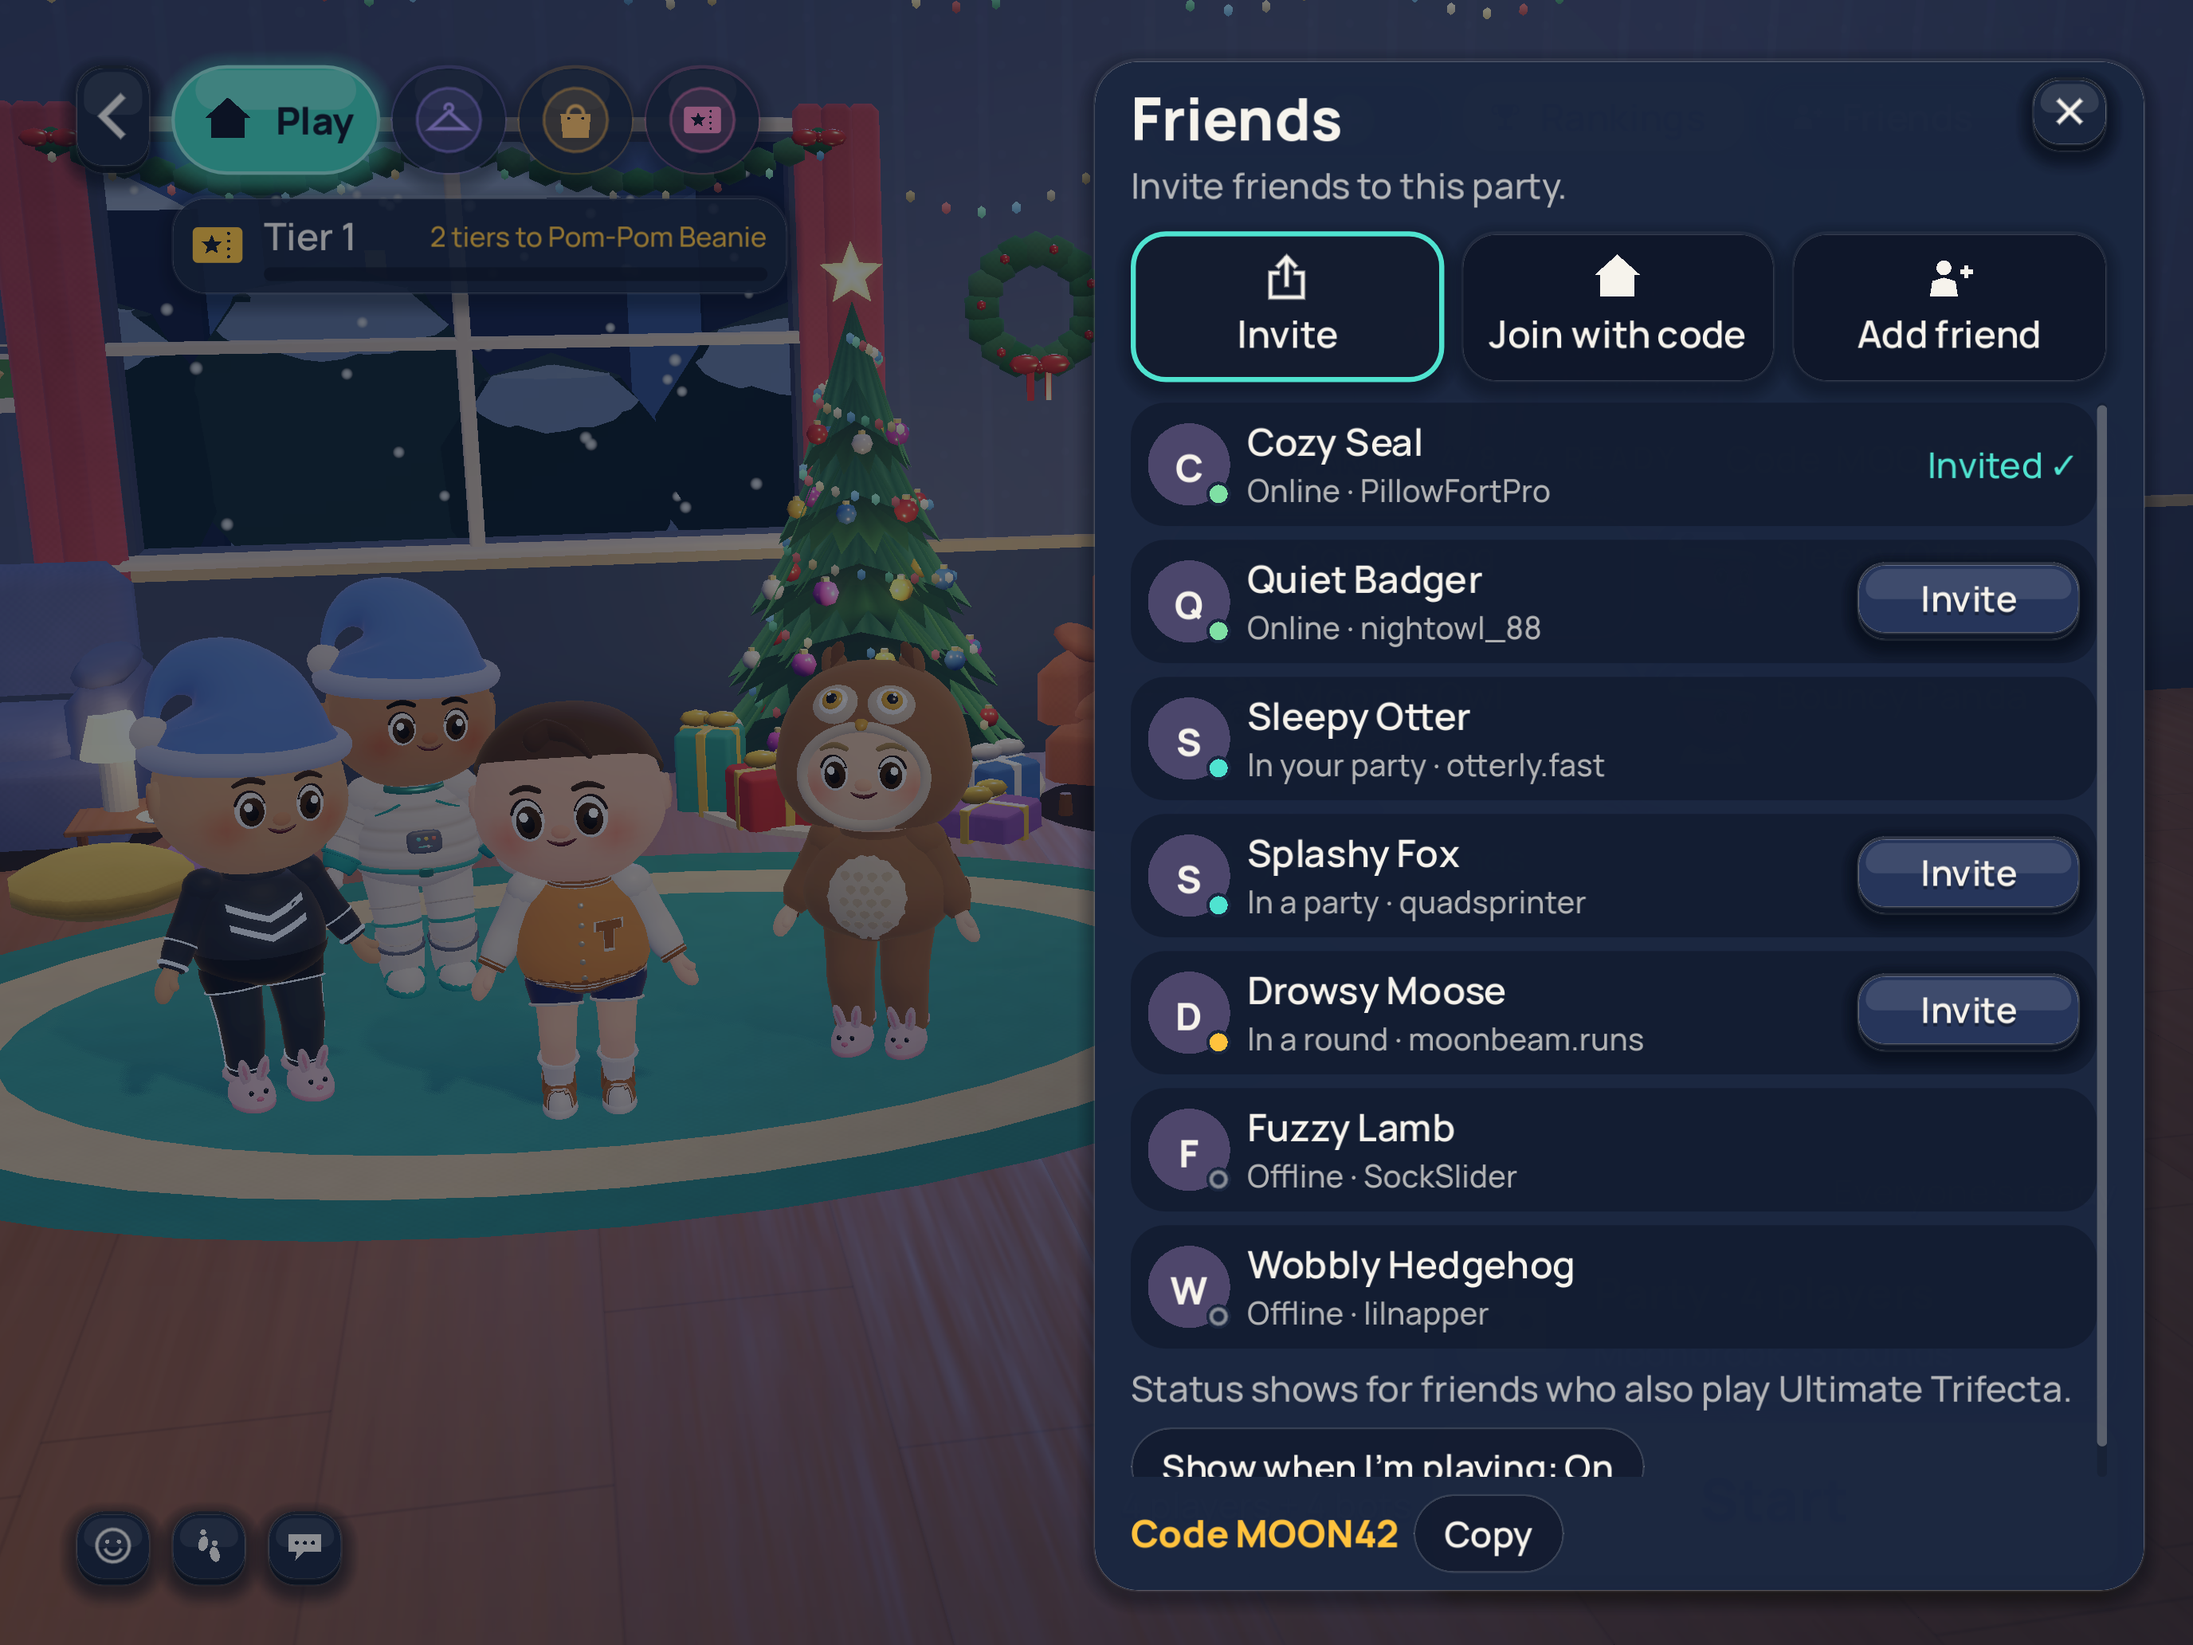
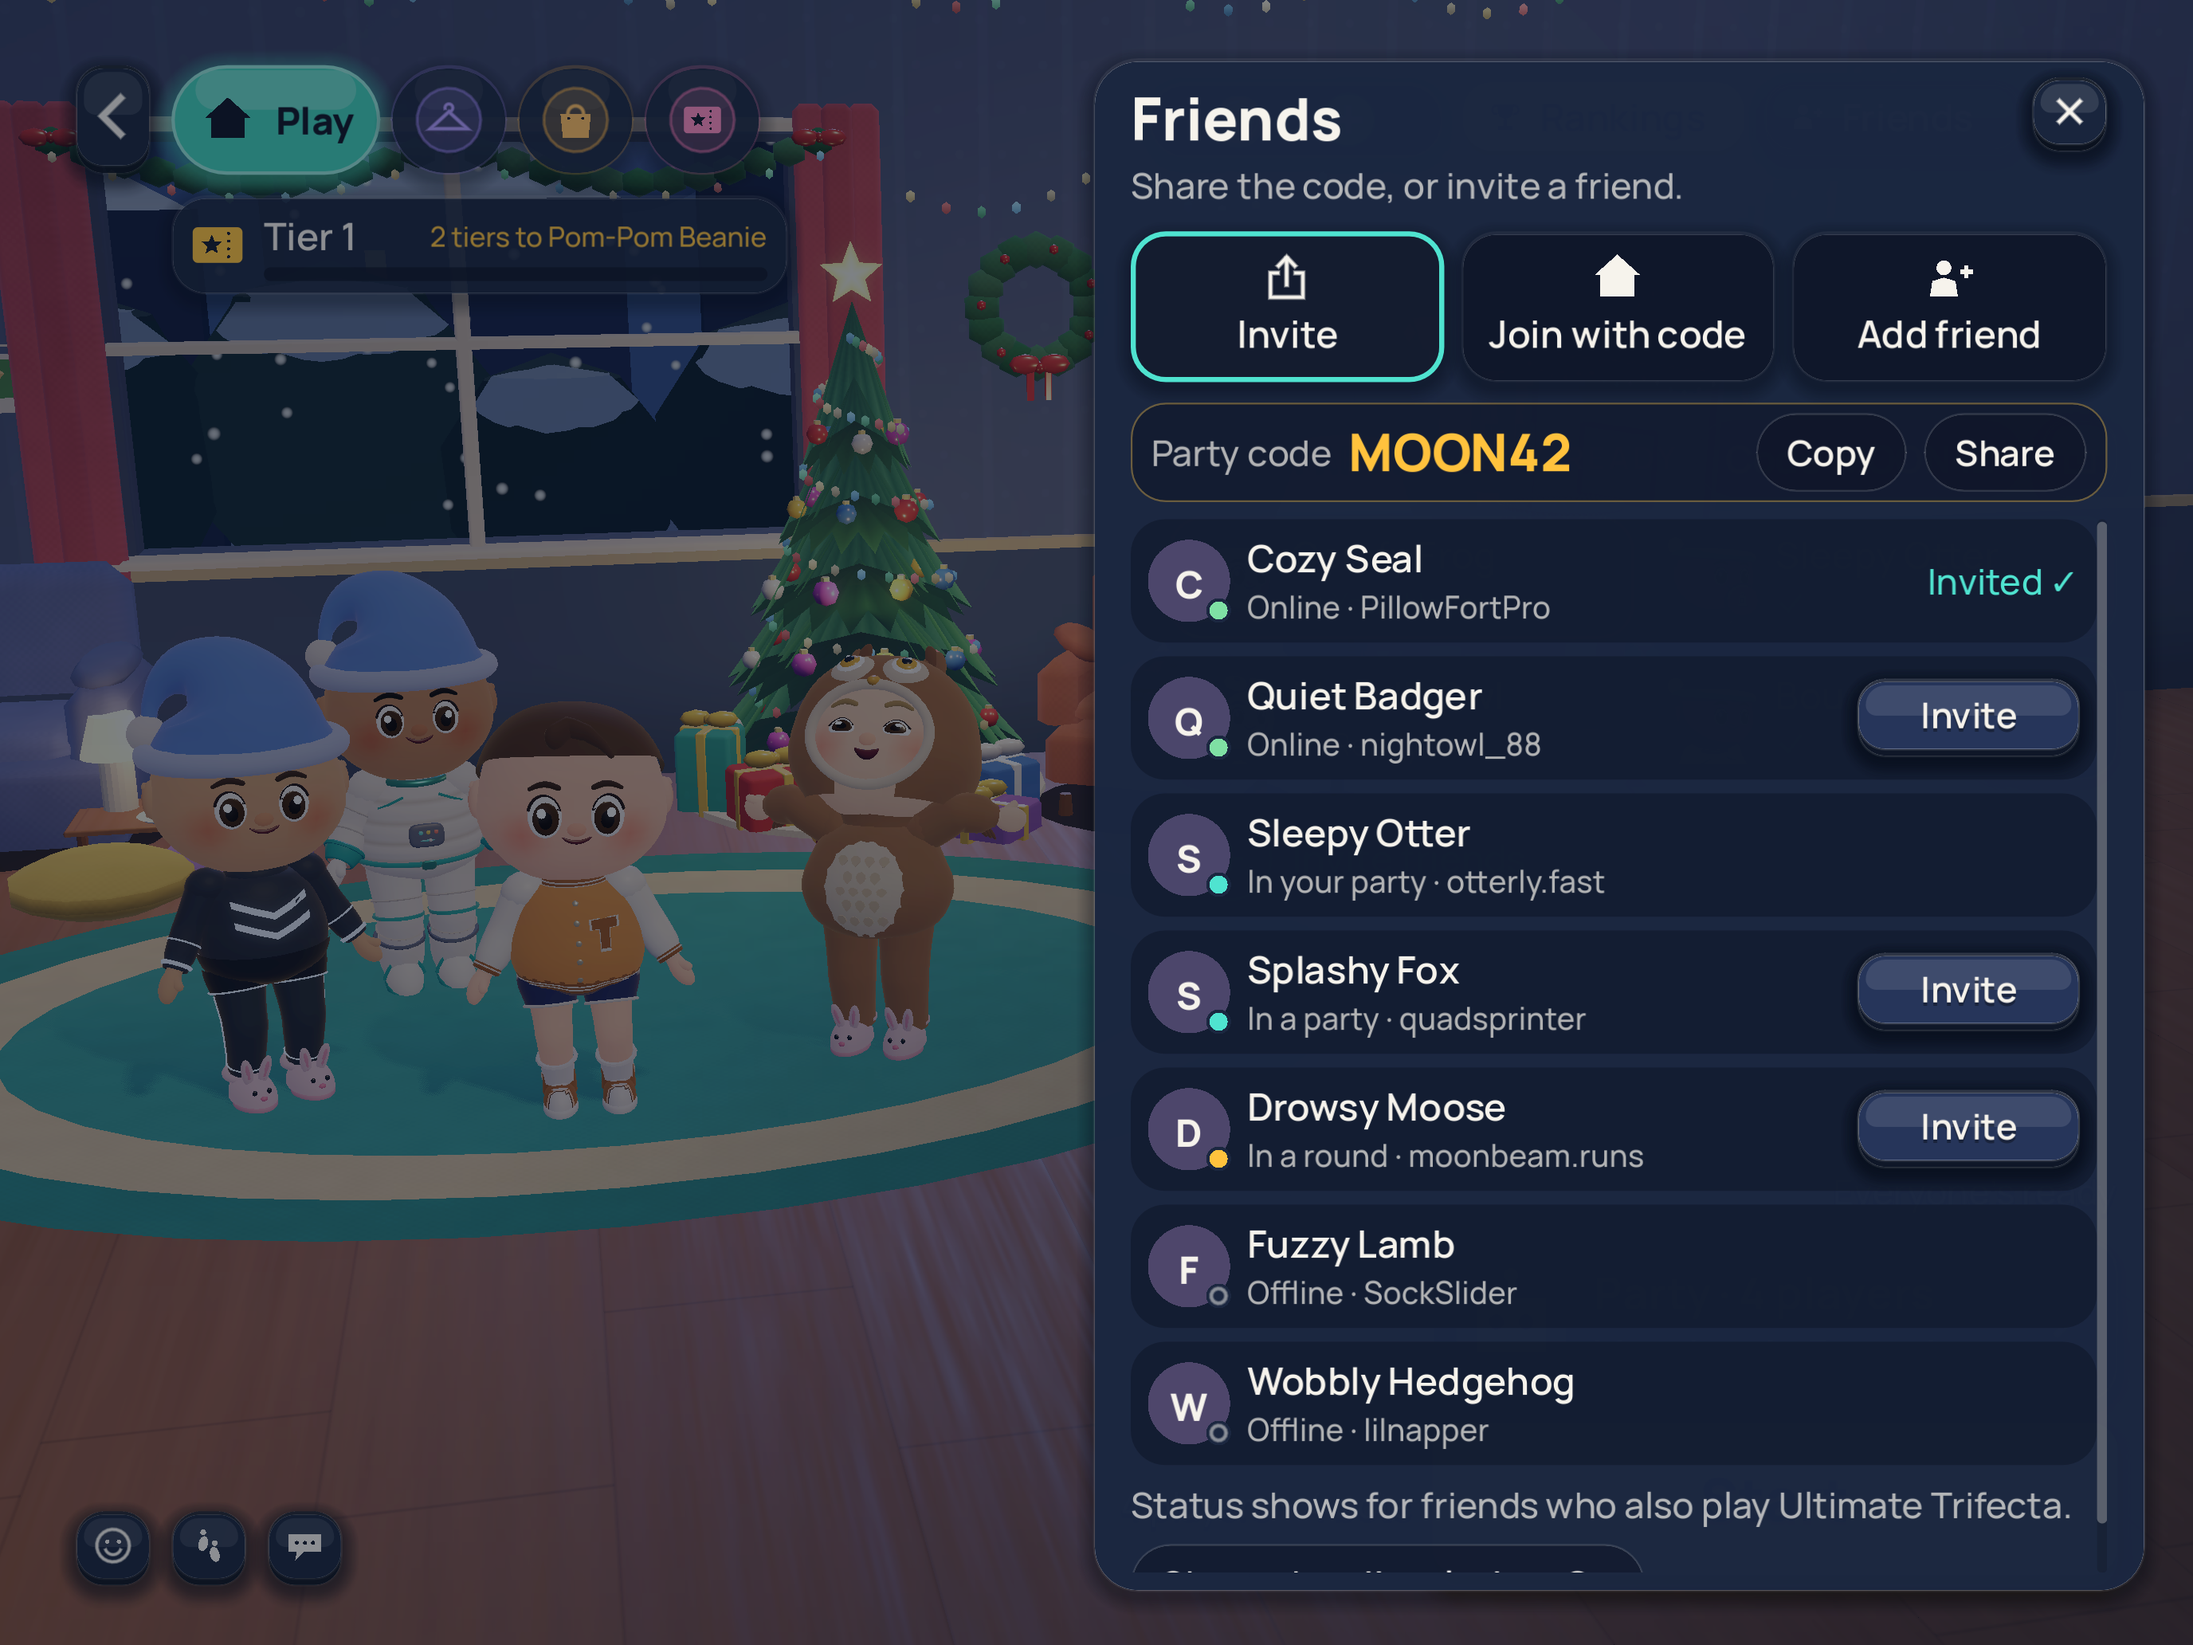
Build 31 recorded; Friends screenshots show the party code card [skip ci]
Claude-Session: https://claude.ai/code/session_012PLvN9AebYV62SF397aCcL

diff --git a/TESTFLIGHT_RELEASE.md b/TESTFLIGHT_RELEASE.md
@@ -25,13 +25,13 @@ The previous version, **2.0 (final release sweep)**, is a provisional App Store-
 
 ## Current release state
 
-**State (2.2): source prepared · project compiled · signed archive created · uploaded · processed (VALID) · available to internal testers.** Latest build: **2.2 (30)** (the final pass: Premium App Store only, Coins counter in the lobby, coin shop and results redesign, Season name cards and badges on the roster, the basketball rework, friends by tag and the Game Center invite hardening; service migration 0007 deployed 22 Nov 2026), **App Store-eligible**; submit build 30 with the screenshots in `docs/media/final/store/`.
+**State (2.2): source prepared · project compiled · signed archive created · uploaded · processed (VALID) · available to internal testers.** Latest build: **2.2 (31)** (Friends › Invite makes your own party with a code, no Game Center screen; plus everything in 30), **App Store-eligible**; submit build 31 with the screenshots in `docs/media/final/store/`.
 
 It is **not device-tested**: no install or play on an iPhone or iPad has been observed. No external testing was requested, no testers were added, nothing was submitted for App Store review, nothing was released, and no purchase of any kind was made.
 
 | | |
 |---|---|
-| Build | `com.idlery.ultimatetrifecta` **2.2 (30)**. App Store Connect build ID `c886b0ee-b1fc-4f00-bf07-428e84828909` (workflow run #298). (2.2 (29) was never uploaded: its CI test run failed on a flaky ball-spawn test, fixed in 30. 2.2 (28) `ee313d6a-…`, 2.2 (27) `5f46a757-…`, 2.2 (26) `61100c01-…`, 2.2 (25) `e5ddb60c-…`, 2.2 (24) `a7f00f71-…`, 2.2 (23) `c214ff57-…`, 2.2 (22) `afa50521-…`, 2.2 (21) `4b60796f-…`, 2.2 (20) `f6768187-…`, 2.2 (19) `39bbd93c-…`, 2.2 (18) `c56ada6c-…`, 2.2 (17) `48fb4361-…`, 2.2 (16) `cf0a8982-…`, 2.2 (15) `e9a19fe1-…`, 2.2 (14) `bc03f233-…`, 2.2 (13) `54f2dcc4-…` and 2.2 (12) `c50a97e1-…` are the previous ones.) |
+| Build | `com.idlery.ultimatetrifecta` **2.2 (31)**. App Store Connect build ID `c2033943-22c0-4252-91ea-d5fd2d5c3145` (workflow run #299). (2.2 (30) `c886b0ee-…`, 2.2 (29) was never uploaded: its CI test run failed on a flaky ball-spawn test, fixed in 30. 2.2 (28) `ee313d6a-…`, 2.2 (27) `5f46a757-…`, 2.2 (26) `61100c01-…`, 2.2 (25) `e5ddb60c-…`, 2.2 (24) `a7f00f71-…`, 2.2 (23) `c214ff57-…`, 2.2 (22) `afa50521-…`, 2.2 (21) `4b60796f-…`, 2.2 (20) `f6768187-…`, 2.2 (19) `39bbd93c-…`, 2.2 (18) `c56ada6c-…`, 2.2 (17) `48fb4361-…`, 2.2 (16) `cf0a8982-…`, 2.2 (15) `e9a19fe1-…`, 2.2 (14) `bc03f233-…`, 2.2 (13) `54f2dcc4-…` and 2.2 (12) `c50a97e1-…` are the previous ones.) |
 | Build number | **27**: the lane read the highest existing build (2.2 (26)) and added one. Built with Xcode 27.2, iOS SDK 27.2. |
 | Source | Commit `3753ec2` on `claude/happy-edison-50dynd`. |
 | Uploaded | 2026-11-19 (about 16:30 UTC), by GitHub Actions run #282 (https://github.com/BKimble1/ultimate-trifecta/actions/runs/44562034120) with `upload=true` and `distribution=app_store`. The headless tests gate the build and passed in that run (run #281 stopped at the tests: the season film played under the test runner on a fresh profile; fixed in `3753ec2`). The film ships in the app (`assets/video/season_s1.ogv`). |

diff --git a/docs/media/final/store/README.md b/docs/media/final/store/README.md
@@ -1,9 +1,9 @@
-# App Store submission screenshots · 2.2 (build 30)
+# App Store submission screenshots · 2.2 (build 31)
 
 **Everything to upload for the 2.2 submission: the public App Store
 screenshots (iPhone and iPad) and the review screenshot for each of the
-9 in-app purchases.** Rendered on 22 Nov 2026 from the build 30 source
-(submit build 30: the build these screens come from), at the exact store sizes, with the App Store
+9 in-app purchases.** Rendered on 22 Nov 2026 from the build 30 source (Friends shot: build 31)
+(submit build 31: the build these screens come from), at the exact store sizes, with the App Store
 Connect prices (USA) on the purchase screens.
 
 ## Upload map

diff --git a/docs/APP_STORE.md b/docs/APP_STORE.md
@@ -278,7 +278,7 @@ current specification):
   2778 × 1284 if 6.9" isn't provided. Up to 10.
 - **iPad 13" display:** 2752 × 2064 (landscape). Up to 10.
 
-The sets for 2.2 (build 30) are in `docs/media/final/store/`: `iphone_6.9/`
+The sets for 2.2 (build 31) are in `docs/media/final/store/`: `iphone_6.9/`
 (9 shots, 2868 × 1320) and `ipad_13/` (9 shots, 2752 × 2064), PNG, 8-bit
 RGB, no alpha, sRGB, all passing `tools/store_shot_check.py`. Renders of the
 real game's screens and a real practice round with fictional player names
